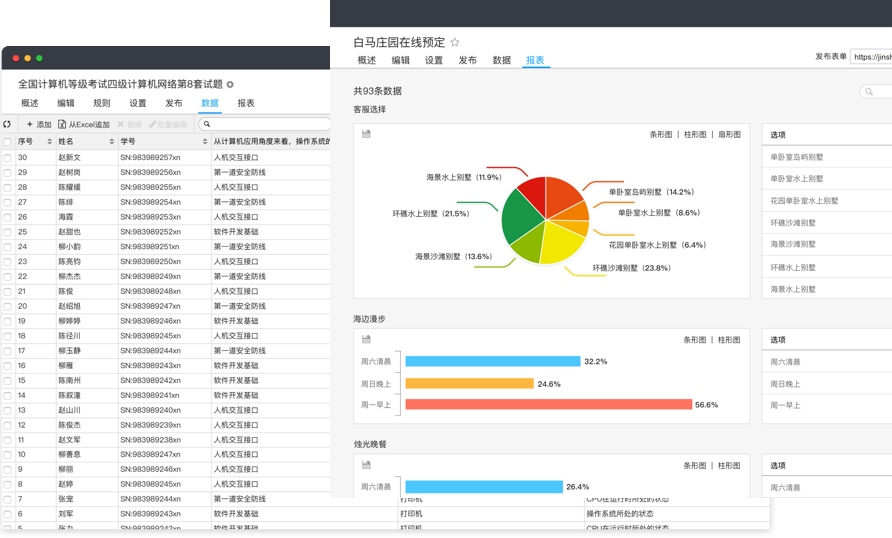
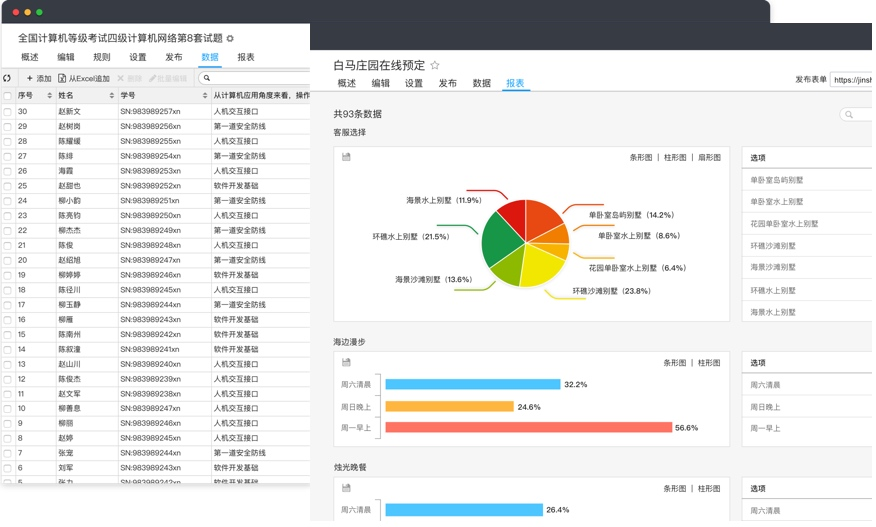
add style

diff --git a/jinshuju-intro.html b/jinshuju-intro.html
@@ -195,7 +195,12 @@
       </div>
     </div>
     
-    
+    <div class="slide">
+      <h1>多变样式</h1>
+      <div class="col-12 text-center">
+          <img src="images/theme.jpg">
+      </div>
+    </div>
     
     
     <div class="slide">

diff --git a/css/slide.css b/css/slide.css
@@ -75,5 +75,5 @@
 }
 
 img {
-  max-height: 4.5in;
+  max-height: 4.7in;
 }
